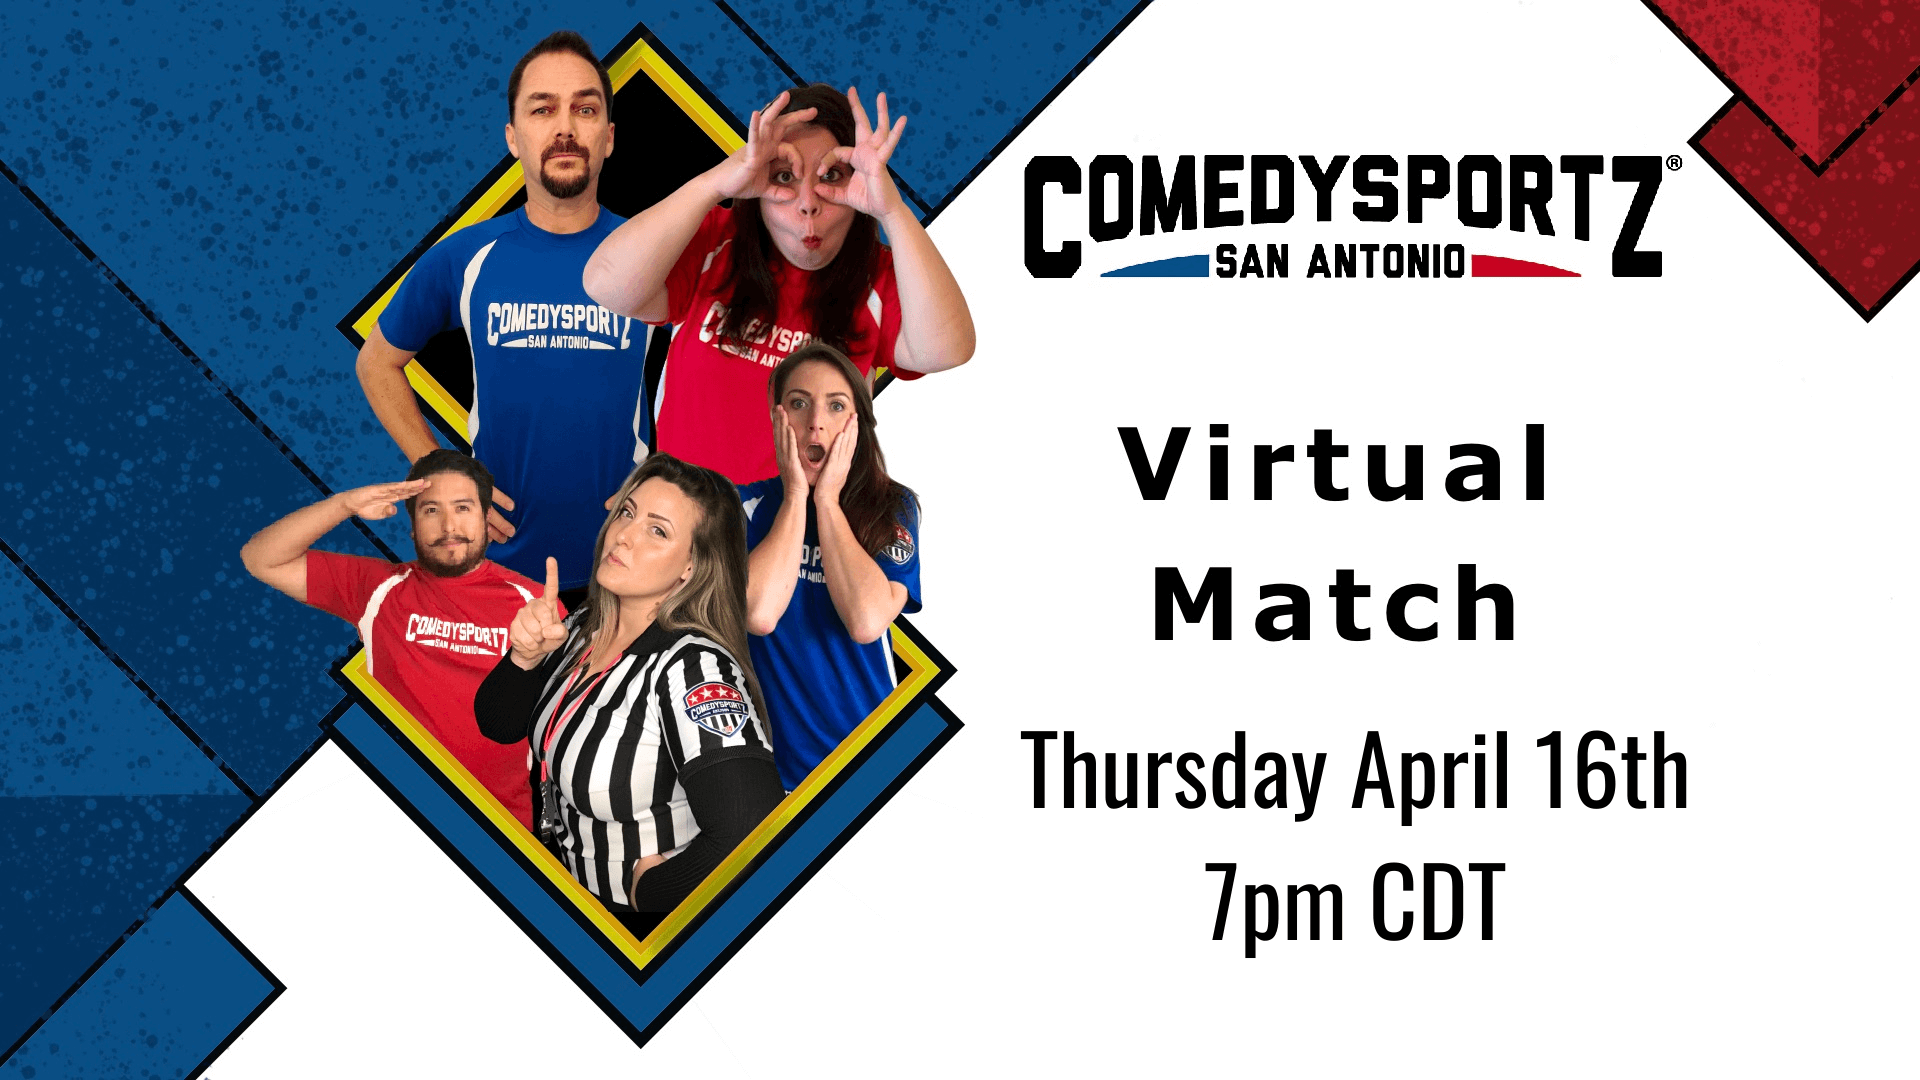
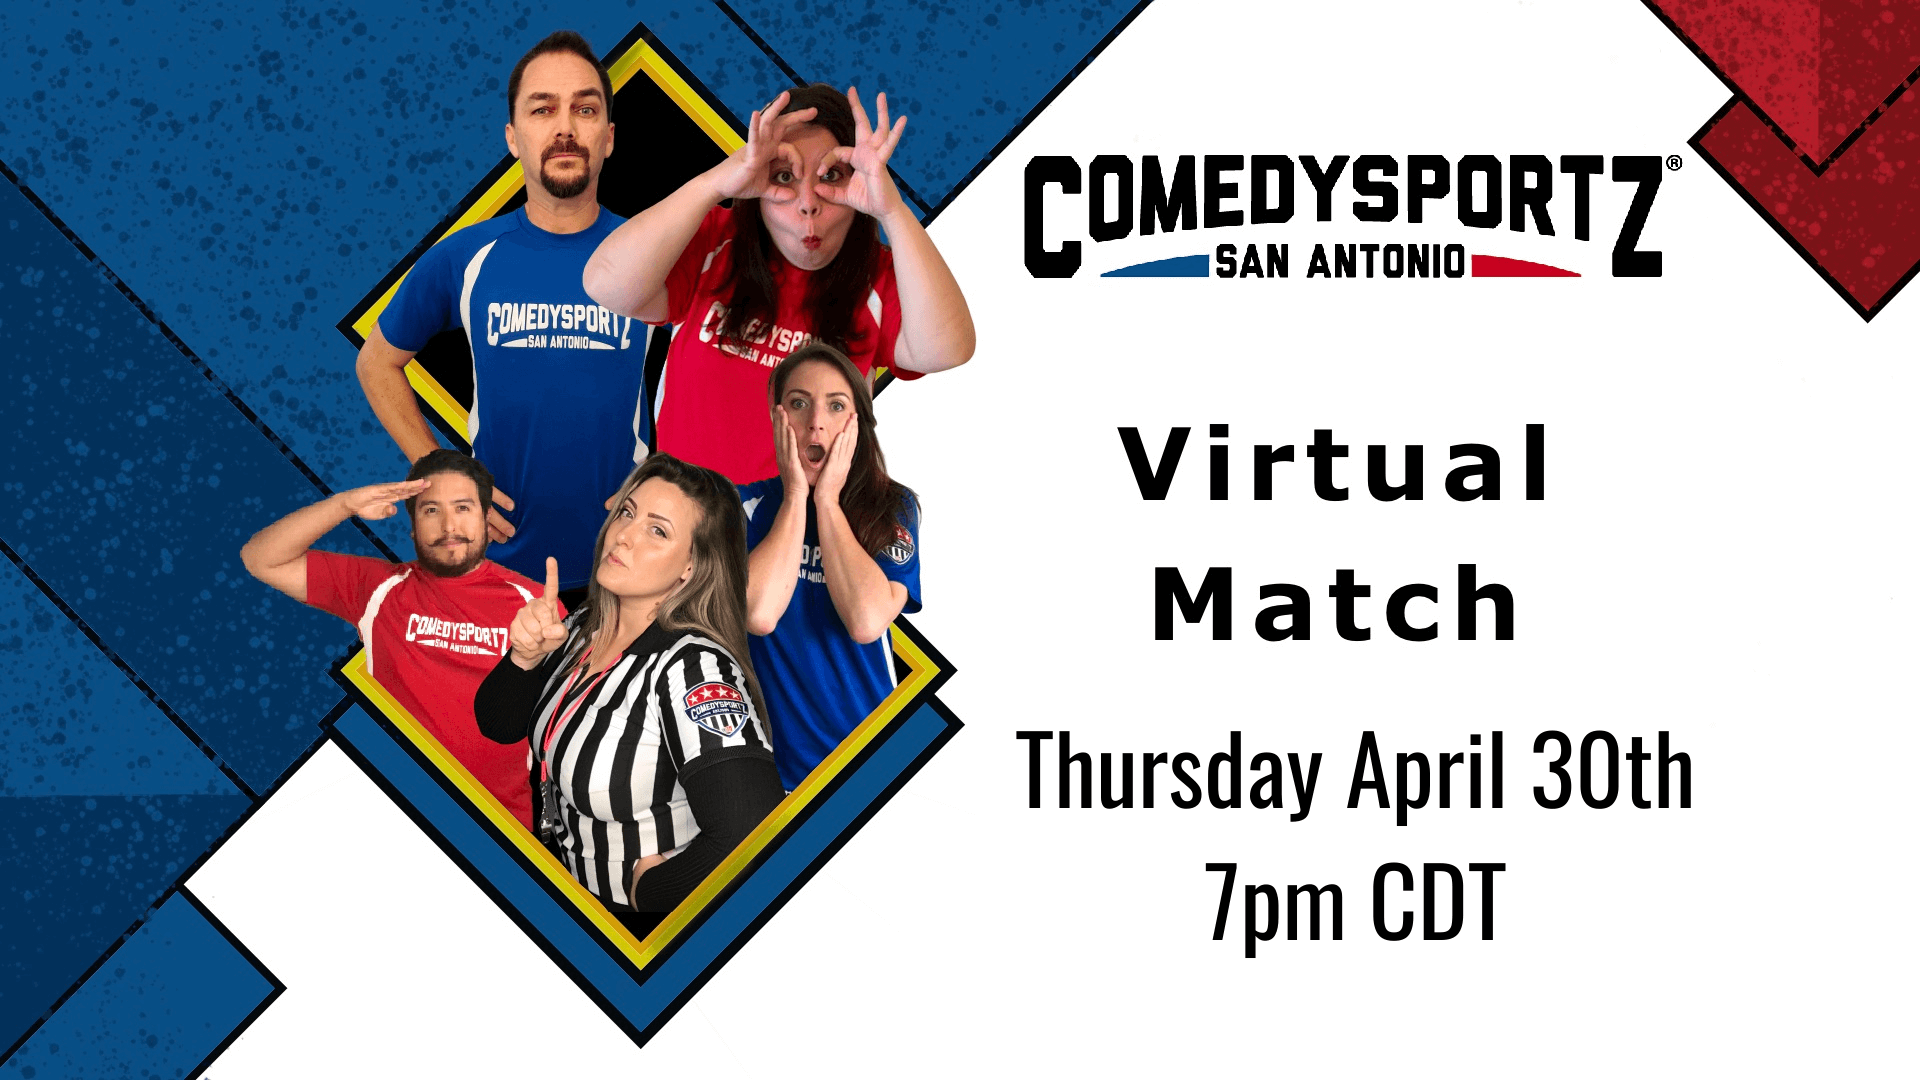
virtual match 2

Changed region(s): [[0.5312, 0.6722, 0.875, 0.7639]]

diff --git a/themes/alpha-csz/layouts/index.html b/themes/alpha-csz/layouts/index.html
@@ -6,7 +6,7 @@
 
 {{ partial "header" . }}
 {{ partial "nav" . }}
-{{ if .Site.Params.urgent }}{{ partial "intro" . }}{{ end }}
+{{ partial "intro" . }}
 {{ partial "banner" . }}
 
 			{{ "<!-- Main -->" | safeHTML }}

diff --git a/content/specialevents/virtualmatch.md b/content/specialevents/virtualmatch.md
@@ -10,7 +10,7 @@ featured_image: /images/cszsavirtualmatch.png
 images:
 - /images/cszsavirtualmatch.png
 menuname: Virtual Shows
-title: Live Online Show April 16th!
+title: Live Online Show April 30th!
 weight: 30
 ---
 
